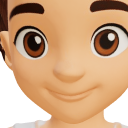
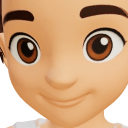
3D-forsøg: tykkere overlæbe, mindre tænder, rund neutral mund
Overlæben er tykkere på alle munde, tænderne lavere og smallere med runde ender, og Neutral og Trist er rundet af i mundvigene.

diff --git a/3d-forsoeg/index.html b/3d-forsoeg/index.html
@@ -474,11 +474,12 @@ function drawEyes(o) {
 // soft pink, fuller below, lit from above. Each but Åh and Kys is given by its middle line - mid: how high, and how much
 // its corners rise (a frown: they fall) - its half width hw, how far it opens above and below that line (open), and how
 // thick its upper and lower lips are (lip); Grin and Tunge show upper teeth (teeth) and Grin a tongue lying inside)
-const MOUTHS = [['mund-smil', 'Smil'], ['mund-neutral', 'Neutral', { mid: [.01, .01], hw: .26, open: [0, 0], lip: [.038, .06] }],
-  ['mund-grin', 'Grin', { mid: [-.02, .1], hw: .38, open: [.025, .22], lip: [.012, .03], teeth: .1, tongue: .06, crease: true }],
-  ['mund-tunge', 'Tunge', { mid: [0, .05], hw: .28, open: [.02, .1], lip: [.014, .032], teeth: .05, out: true, crease: true }],
+// (round: how bluntly the lips end at the corners - the smaller, the rounder)
+const MOUTHS = [['mund-smil', 'Smil'], ['mund-neutral', 'Neutral', { mid: [.01, .01], hw: .26, open: [0, 0], lip: [.046, .06], round: .25 }],
+  ['mund-grin', 'Grin', { mid: [-.02, .1], hw: .38, open: [.025, .22], lip: [.024, .03], teeth: .072, tongue: .06, crease: true }],
+  ['mund-tunge', 'Tunge', { mid: [0, .05], hw: .28, open: [.02, .1], lip: [.026, .032], teeth: .04, out: true, crease: true }],
   ['mund-o', 'Åh', { o: true }], ['mund-kys', 'Kys', { kiss: true }],
-  ['mund-trist', 'Trist', { mid: [.035, -.06], hw: .25, open: [0, 0], lip: [.034, .052] }]];
+  ['mund-trist', 'Trist', { mid: [.035, -.06], hw: .25, open: [0, 0], lip: [.042, .052], round: .3 }]];
 let mouthNow = 'mund-smil';
 function setMouth(name) { mouthNow = name; redrawBody(); renderStyles(); }
 function setupMouth(place) {
@@ -546,7 +547,7 @@ function drawMouth(o) {
       const c = my + opts.mid[0] + opts.mid[1] * u * u, top = c + opts.open[0] * s, bot = c - opts.open[1] * Math.pow(s, 1.3);
       // (the upper lip's outer edge dips a little in the middle - its bow; the lower lip is fuller; both round off at the
       // corners rather than running to a point)
-      const su = Math.pow(s, .45), up = top + opts.lip[0] * su * (1 - .28 * Math.exp(-((u / .13) ** 2))), lo = bot - opts.lip[1] * Math.pow(s, .5);
+      const rd = opts.round || .45, su = Math.pow(s, rd), up = top + opts.lip[0] * su * (1 - .28 * Math.exp(-((u / .13) ** 2))), lo = bot - opts.lip[1] * Math.pow(s, rd + .05);
       if (au < 1.05) { under(i, k, lo - Y, u);
         lip(i, k, Y - top, up - Y, (Y - top) / (up - top || 1), false, u);
         lip(i, k, bot - Y, Y - lo, (bot - Y) / (bot - lo || 1), true, u); }
@@ -561,8 +562,9 @@ function drawMouth(o) {
           const te = Math.hypot(X / rx, (Y - ty) / ry); tg = cov((1 - te) * .1) * (opts.out ? cov(top - .004 - Y) : cov(dI));
           const depth = cl((top - Y) / (top - bot || 1)), sh = (.72 + .3 * (1 - te * te)) * (.7 + .3 * depth) + .18 * Math.exp(-((X / .05) ** 2 + ((Y - ty - .3 * ry) / .045) ** 2));
           put(i, tongueC, sh, tg); if (opts.out) put(i, { r: .62, g: .24, b: .27 }, 1, tg * .45 * cov(.005 - Math.abs(X)) * cov(Y - ty + .7 * ry)); }
-        if (opts.teeth) { const tb = top - opts.teeth * Math.pow(s, .6), tooth = Math.abs(((u * 3.2 + .5) % 1 + 1) % 1 - .5);
-          put(i, teethC, k * (.86 + .14 * cl((Y - tb) / opts.teeth)) * (tooth > .46 ? .9 : 1), cov(Math.min(dI, Y - tb))); }
+        // (the upper teeth: across the middle three quarters of the mouth, their ends and lower edge rounded)
+        if (opts.teeth) { const tu = u / .75, ts = Math.sqrt(Math.max(0, 1 - tu * tu)), tb = top - opts.teeth * Math.pow(ts, .5), tooth = Math.abs(((u * 3.6 + .5) % 1 + 1) % 1 - .5);
+          put(i, teethC, k * (.86 + .14 * cl((Y - tb) / opts.teeth)) * (tooth > .46 ? .9 : 1), cov(Math.min(dI, Y - tb)) * (ts > 0 ? 1 : 0)); }
         put(i, seamC, 1, .4 * (1 - tg) * cov(.004 - Math.abs(dI)) * (au < 1 ? 1 : 0)); }
       else if (!open) { put(i, seamC, 1, .85 * cov(.005 * (1 - .5 * u * u) - Math.abs(Y - c)) * cl((.95 - au) / .08)); }
       // (the corners: a small soft dimple; a wide smile pushes up a little crease in the cheek beside each)
